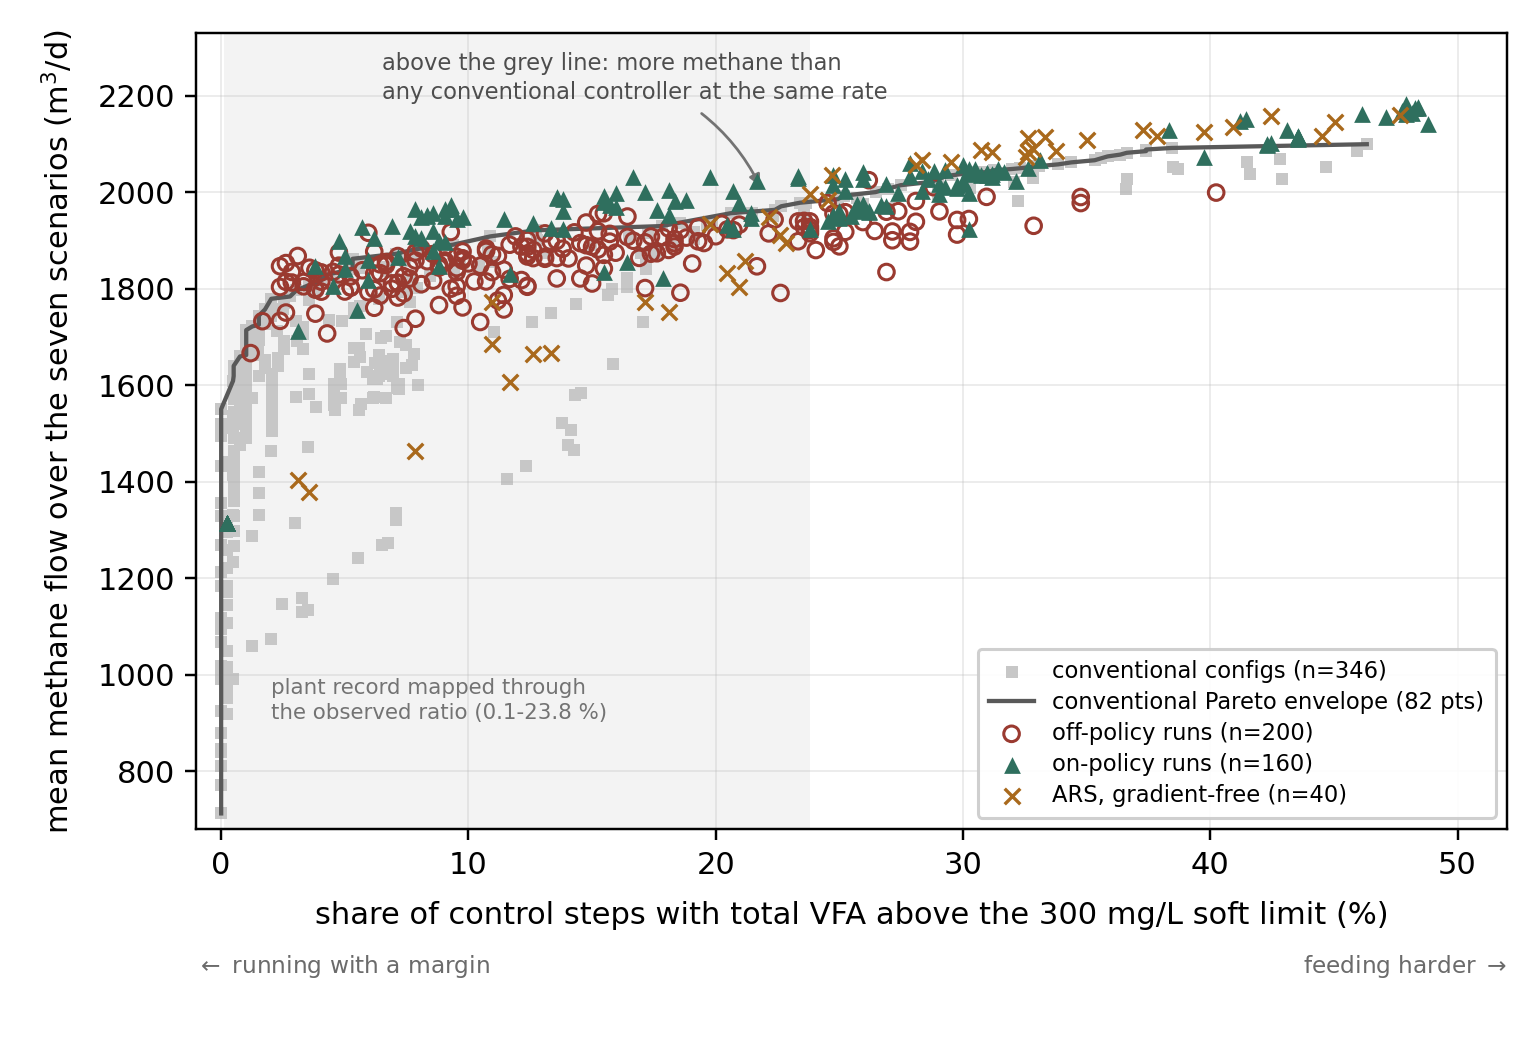
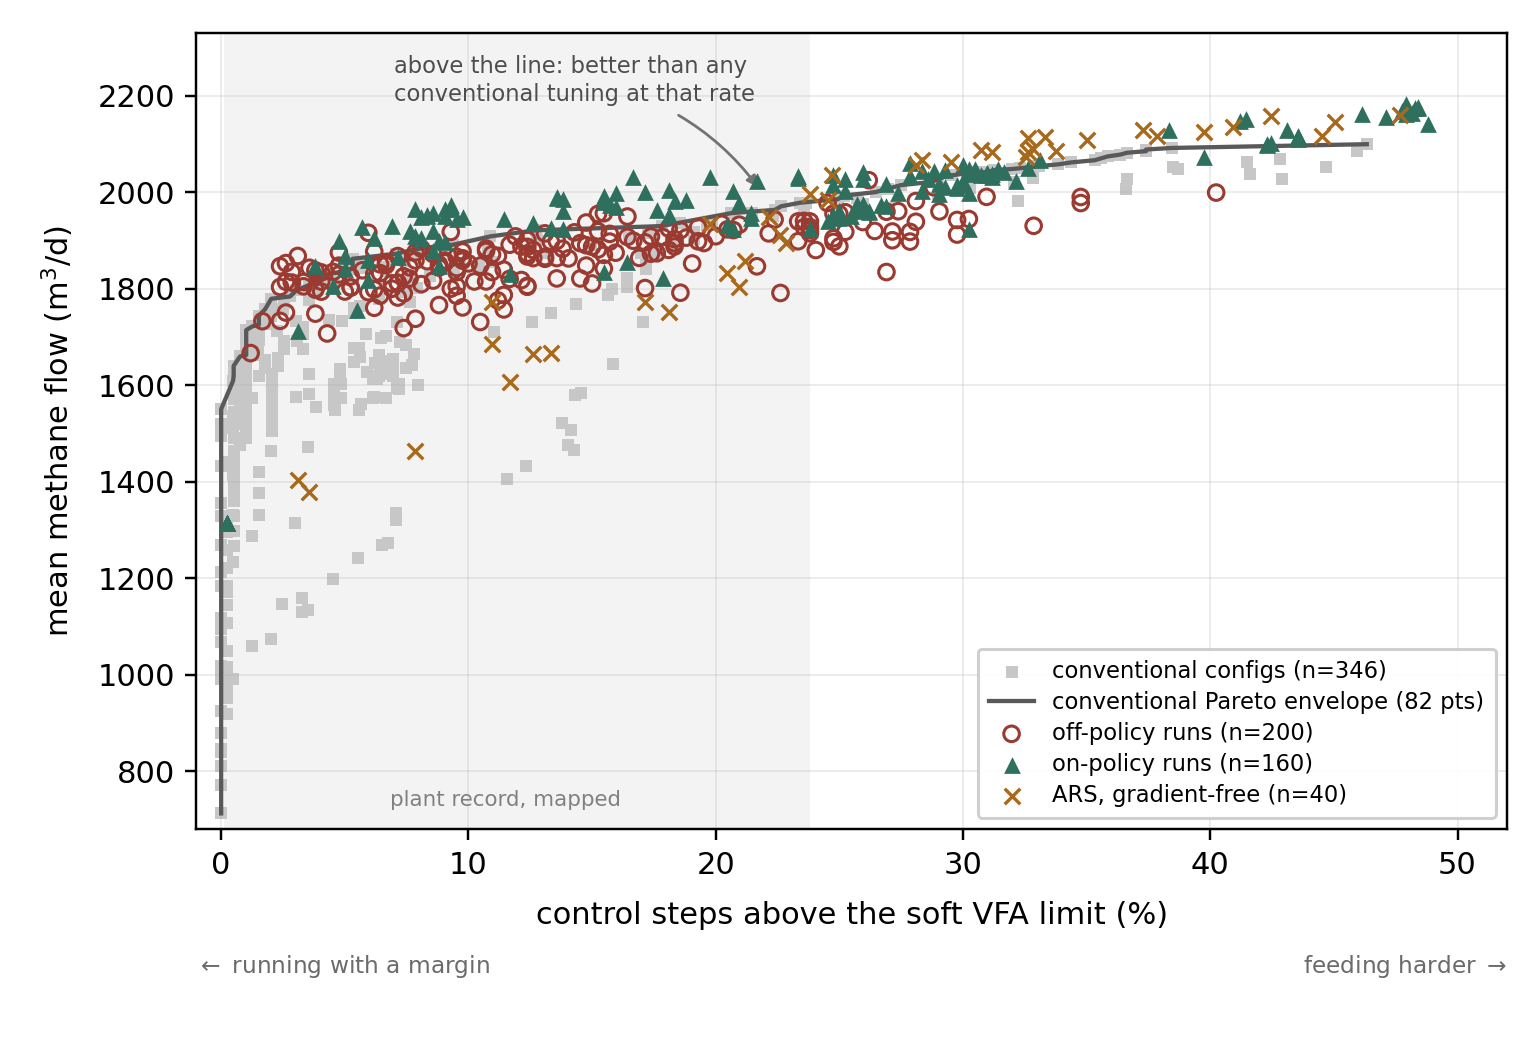
Trim the frontier figure's labels and annotation
The axis label spelled out the 300 mg/L threshold, which the caption and
Section 3.2 already give, and the figure carried three blocks of text. The
axes now name the quantities, the threshold and the mapped plant band are
explained in the caption, and one annotation says how to read the envelope.

diff --git a/figures/make_fig_frontier.py b/figures/make_fig_frontier.py
@@ -81,8 +81,8 @@ if len(ars):
 # The mapped plant range, not a single line: the ratio behind it is not
 # constant, so its endpoints (1579 and 3750 mg/L) bracket the comparison.
 ax.axvspan(0.1, 23.8, color='0.55', alpha=0.10, lw=0, zorder=0)
-ax.text(2.0, 900, 'plant record mapped through\nthe observed ratio (0.1-23.8 %)',
-        fontsize=7.0, color='0.45', va='bottom', ha='left', linespacing=1.3)
+ax.text(11.5, 720, 'plant record, mapped', fontsize=7.0, color='0.5',
+        va='bottom', ha='center')
 
 # Which way is which: the axes trade the same quantity against each other, so
 # say out loud what each end of the trade-off means.
@@ -95,17 +95,14 @@ ax.annotate('feeding harder $\\rightarrow$', xy=(1.0, -0.155),
 
 # A point above the grey line produces more methane than the best conventional
 # controller operating at the same excursion rate; that is the comparison.
-ax.annotate('above the grey line: more methane than\n'
-            'any conventional controller at the same rate',
-            xy=(22.0, 1990), xytext=(6.5, 2290), fontsize=7.4, color='0.3',
+ax.annotate('above the line: better than any\nconventional tuning at that rate',
+            xy=(22.0, 1990), xytext=(7.0, 2285), fontsize=7.4, color='0.3',
             ha='left', va='top', linespacing=1.3,
             arrowprops=dict(arrowstyle='-|>', color='0.45', lw=0.9,
                             shrinkB=4, connectionstyle='arc3,rad=-0.22'))
 
-ax.set_xlabel('share of control steps with total VFA above the 300 mg/L soft '
-              'limit (%)', labelpad=7)
-ax.set_ylabel('mean methane flow over the seven scenarios (m$^3$/d)',
-              labelpad=7)
+ax.set_xlabel('control steps above the soft VFA limit (%)', labelpad=7)
+ax.set_ylabel('mean methane flow (m$^3$/d)', labelpad=7)
 ax.set_xlim(-1, 52); ax.set_ylim(680, 2330)
 ax.grid(alpha=0.25, lw=0.6)
 ax.legend(fontsize=7.4, loc='lower right', framealpha=0.94, ncol=1,
